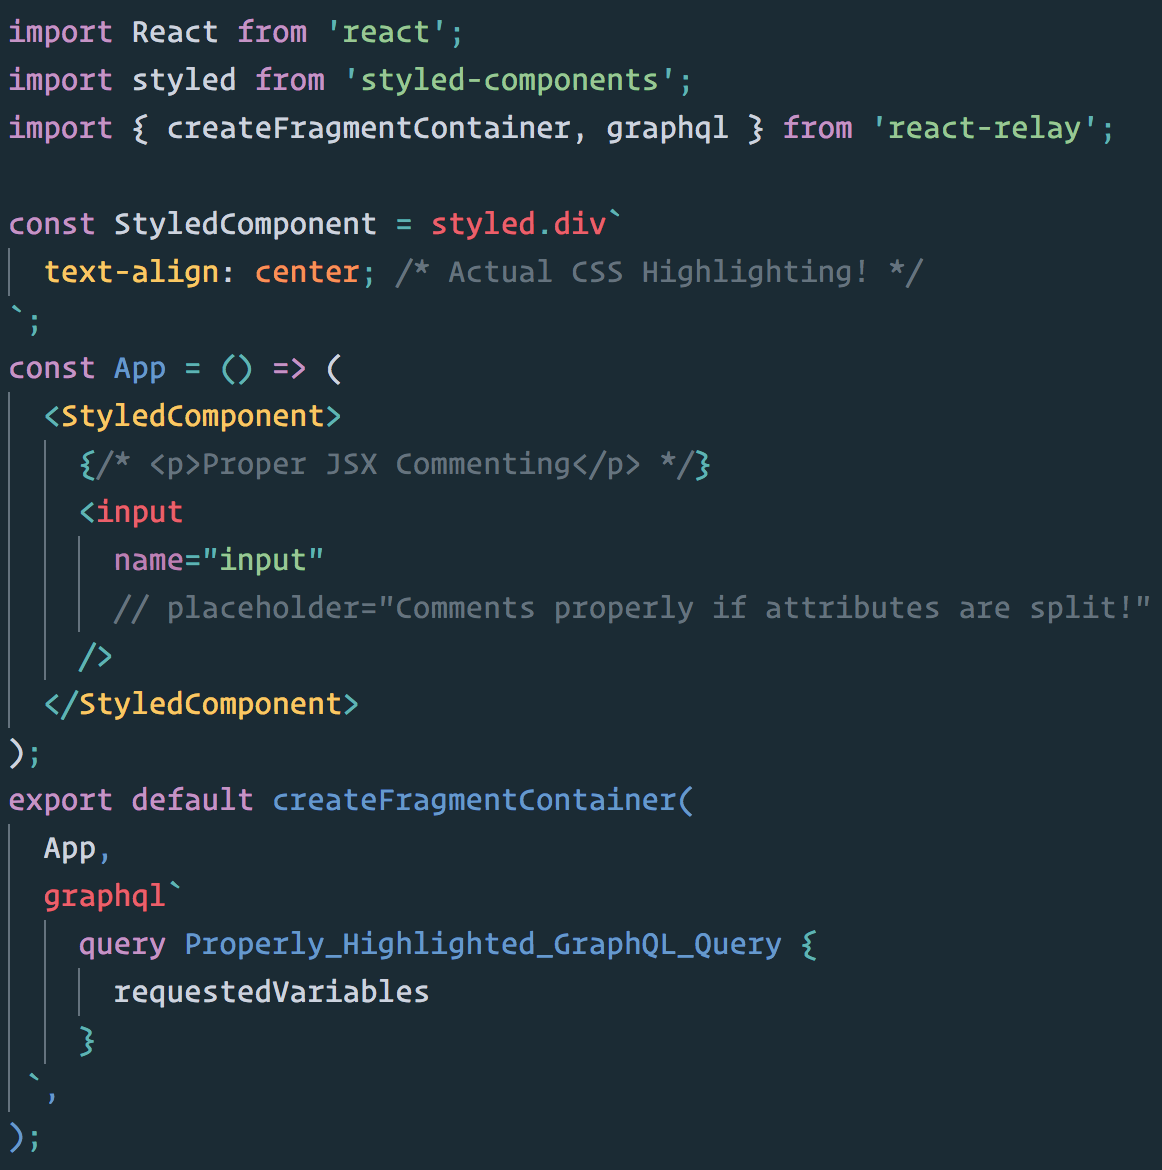
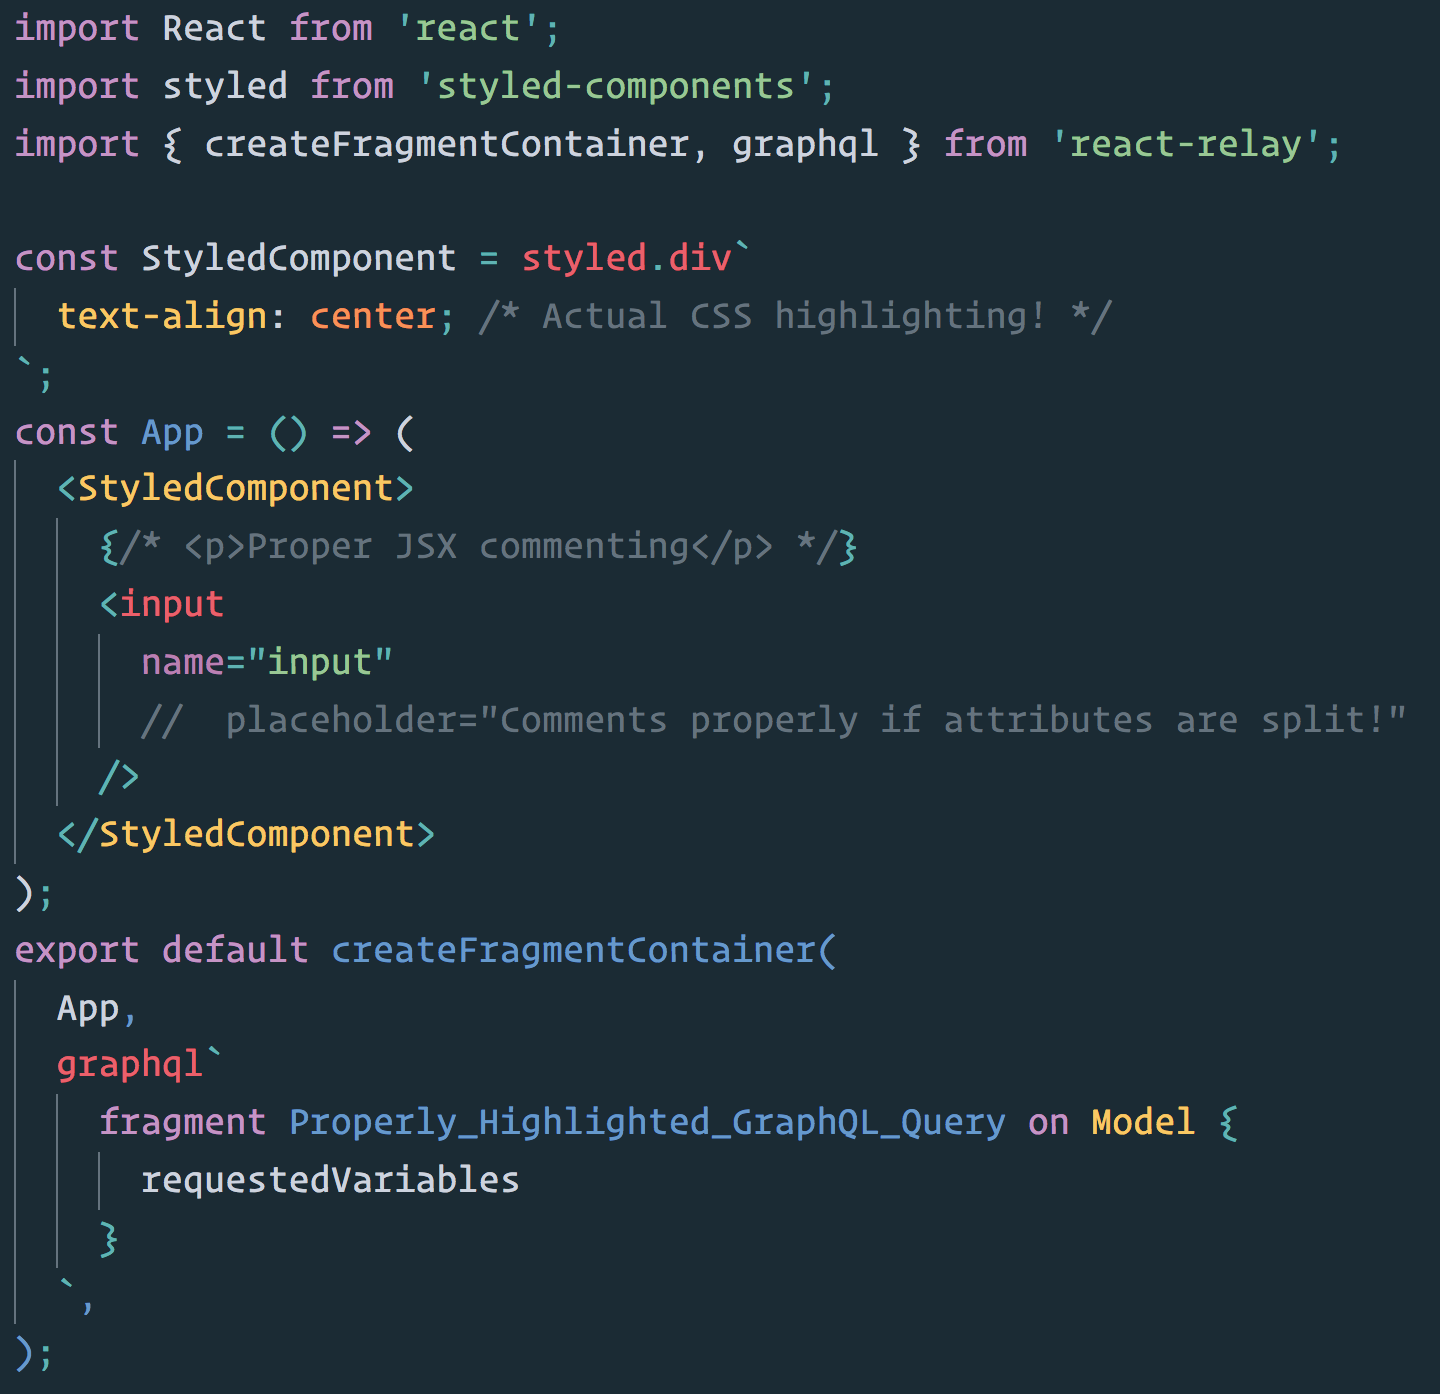
chore: update test.js and screenshot

diff --git a/test.js b/test.js
@@ -3,9 +3,8 @@ import styled from 'styled-components';
 import { createFragmentContainer, graphql } from 'react-relay';
 
 const StyledComponent = styled.div`
-  text-align: center;
+  text-align: center; /* Actual CSS highlighting! */
 `;
-
 const App = () => (
   <StyledComponent>
     {/* <p>Proper JSX commenting</p> */}
@@ -15,11 +14,10 @@ const App = () => (
     />
   </StyledComponent>
 );
-
 export default createFragmentContainer(
   App,
   graphql`
-    query Properly_Highlighted_GraphQL_Query {
+    fragment Properly_Highlighted_GraphQL_Query on Model {
       requestedVariables
     }
   `,
